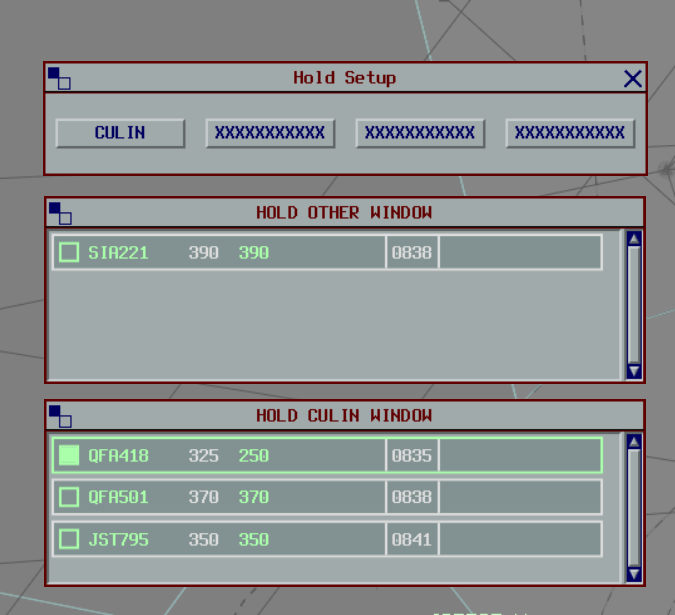
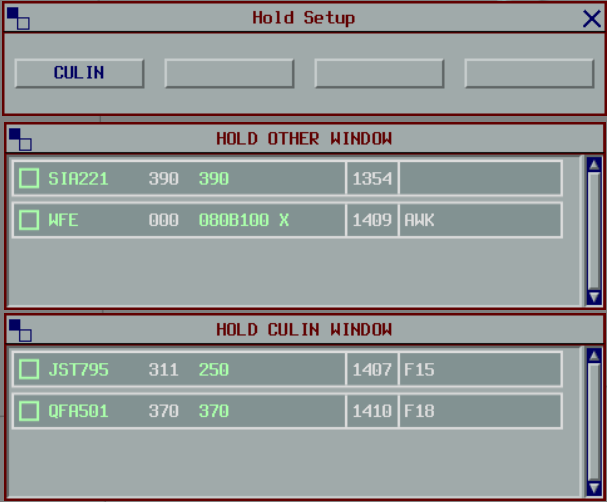
chore: Update screenshot

diff --git a/source/HoldPlugin/ViewModels/HoldSetupViewModel.cs b/source/HoldPlugin/ViewModels/HoldSetupViewModel.cs
@@ -63,7 +63,7 @@ public partial class HoldSetupViewModel : ObservableObject
         }
 
         public string DisplayText => string.IsNullOrWhiteSpace(HoldPointName)
-            ? "XXXXXXXXXXX"
+            ? "           "
             : HoldPointName;
 
         [RelayCommand]
